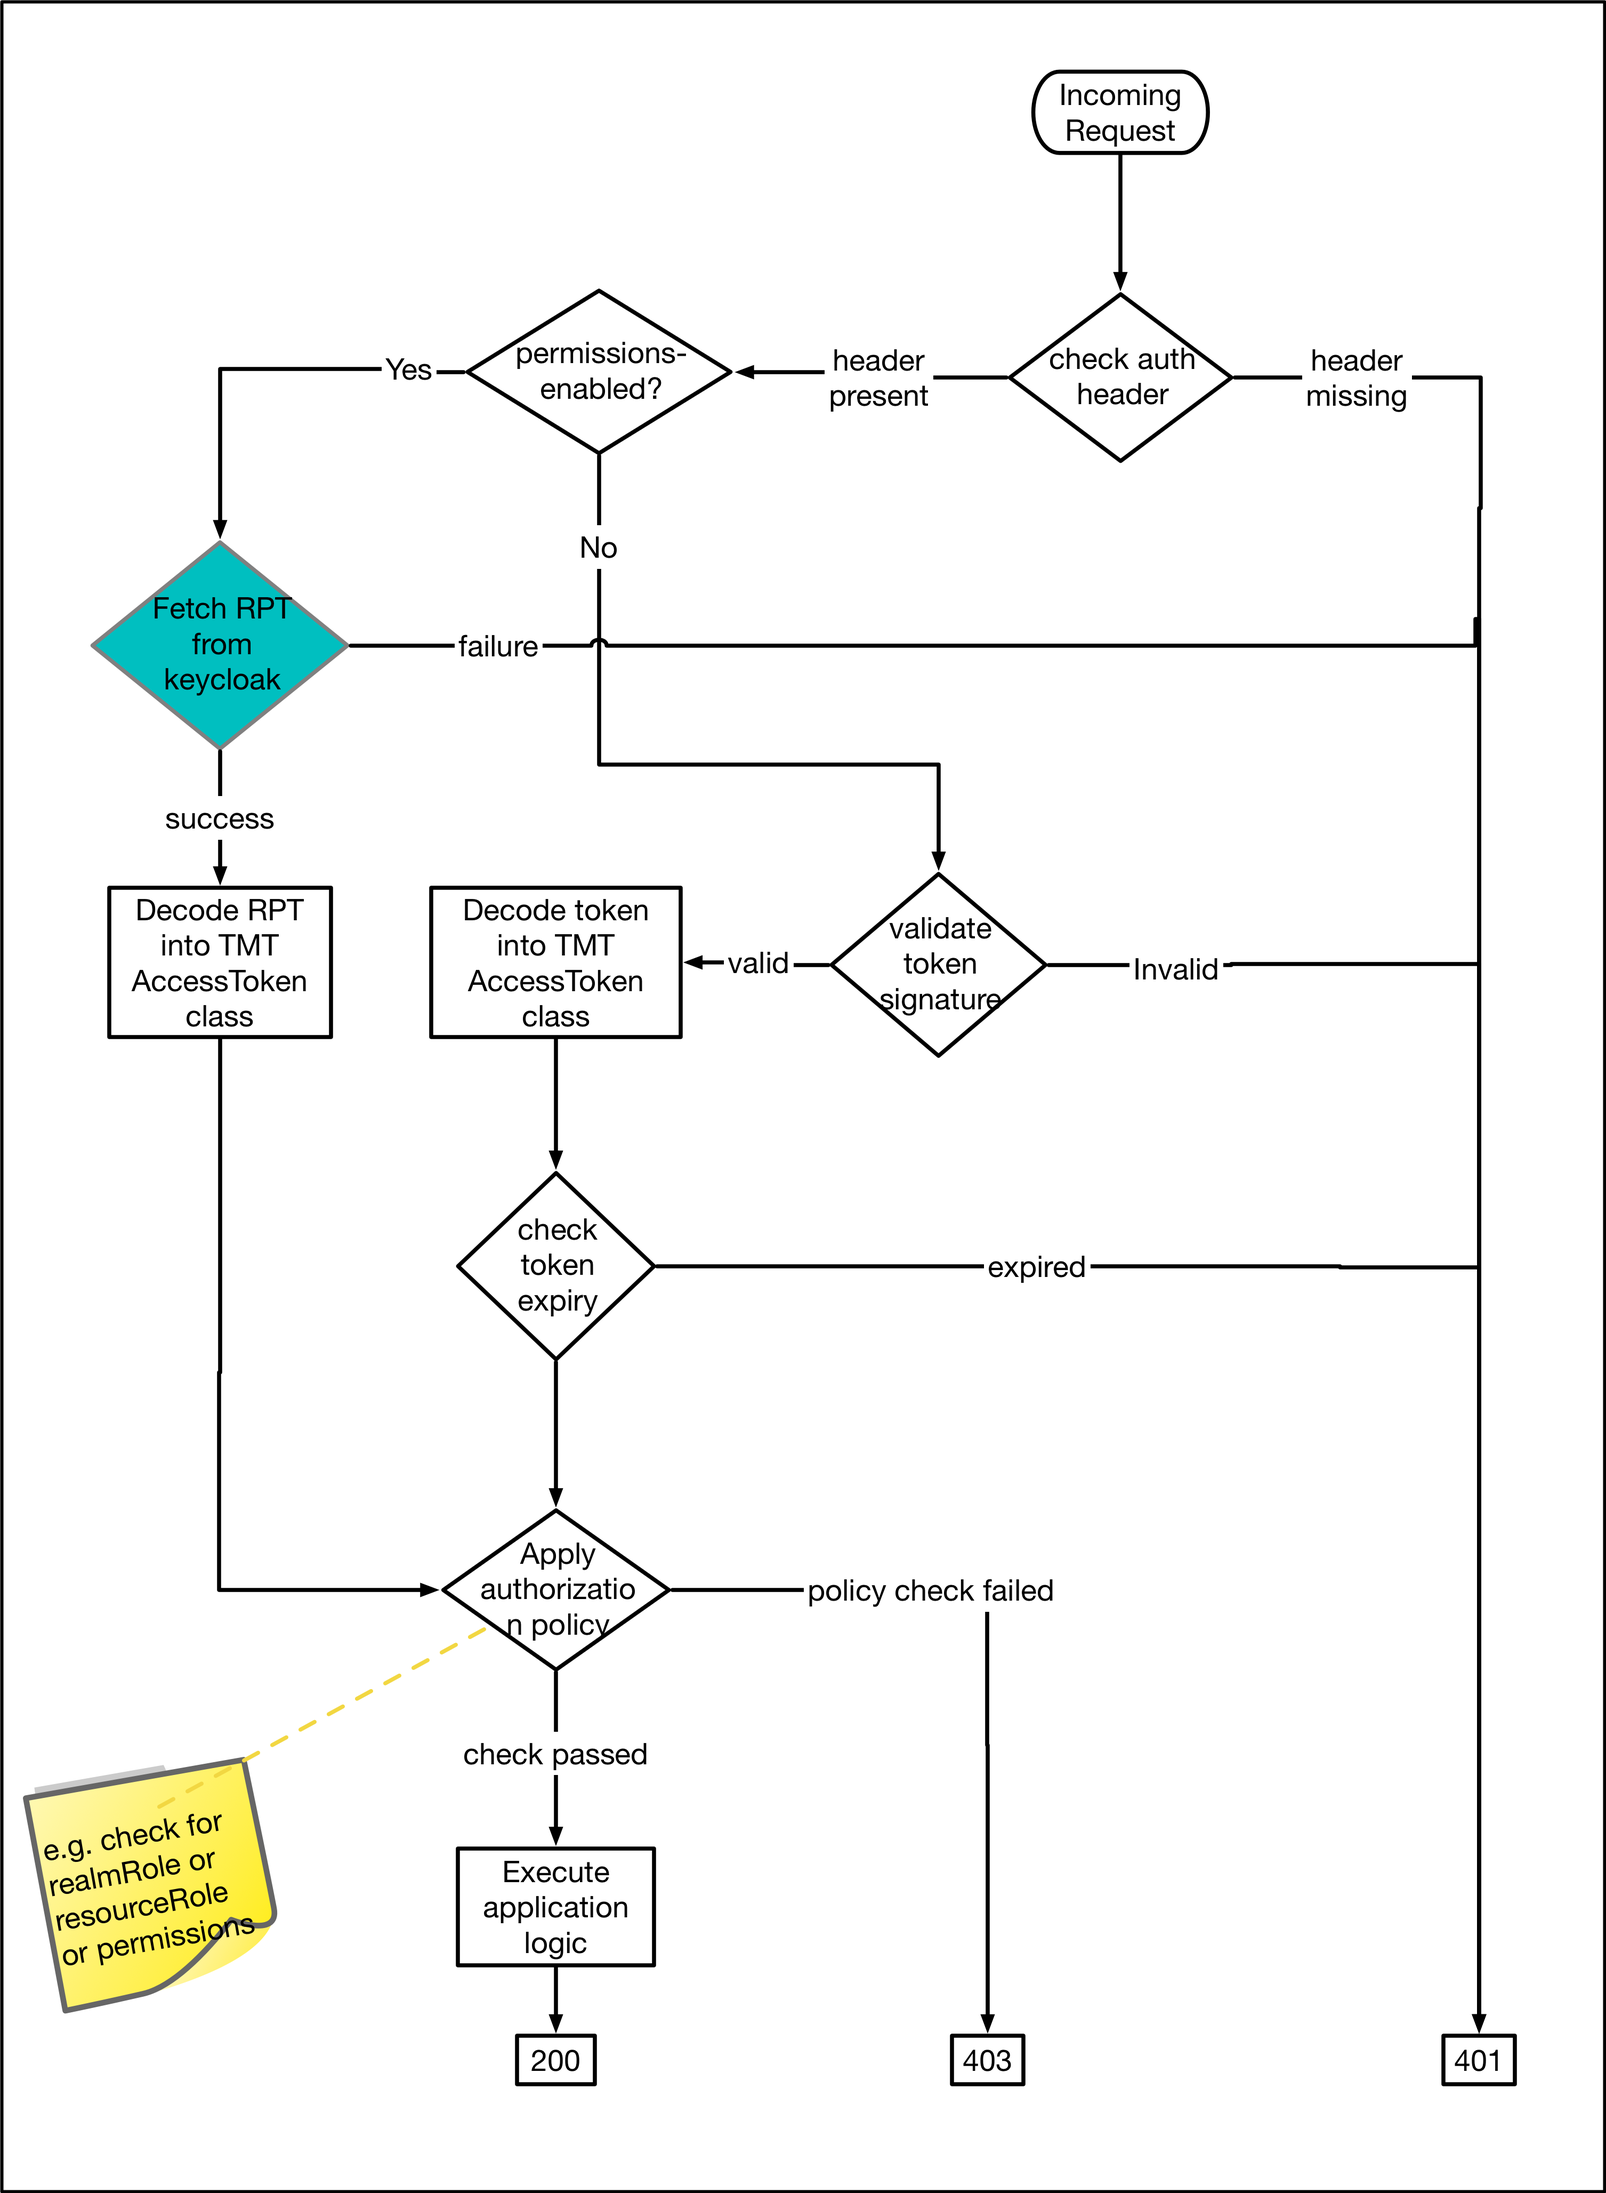
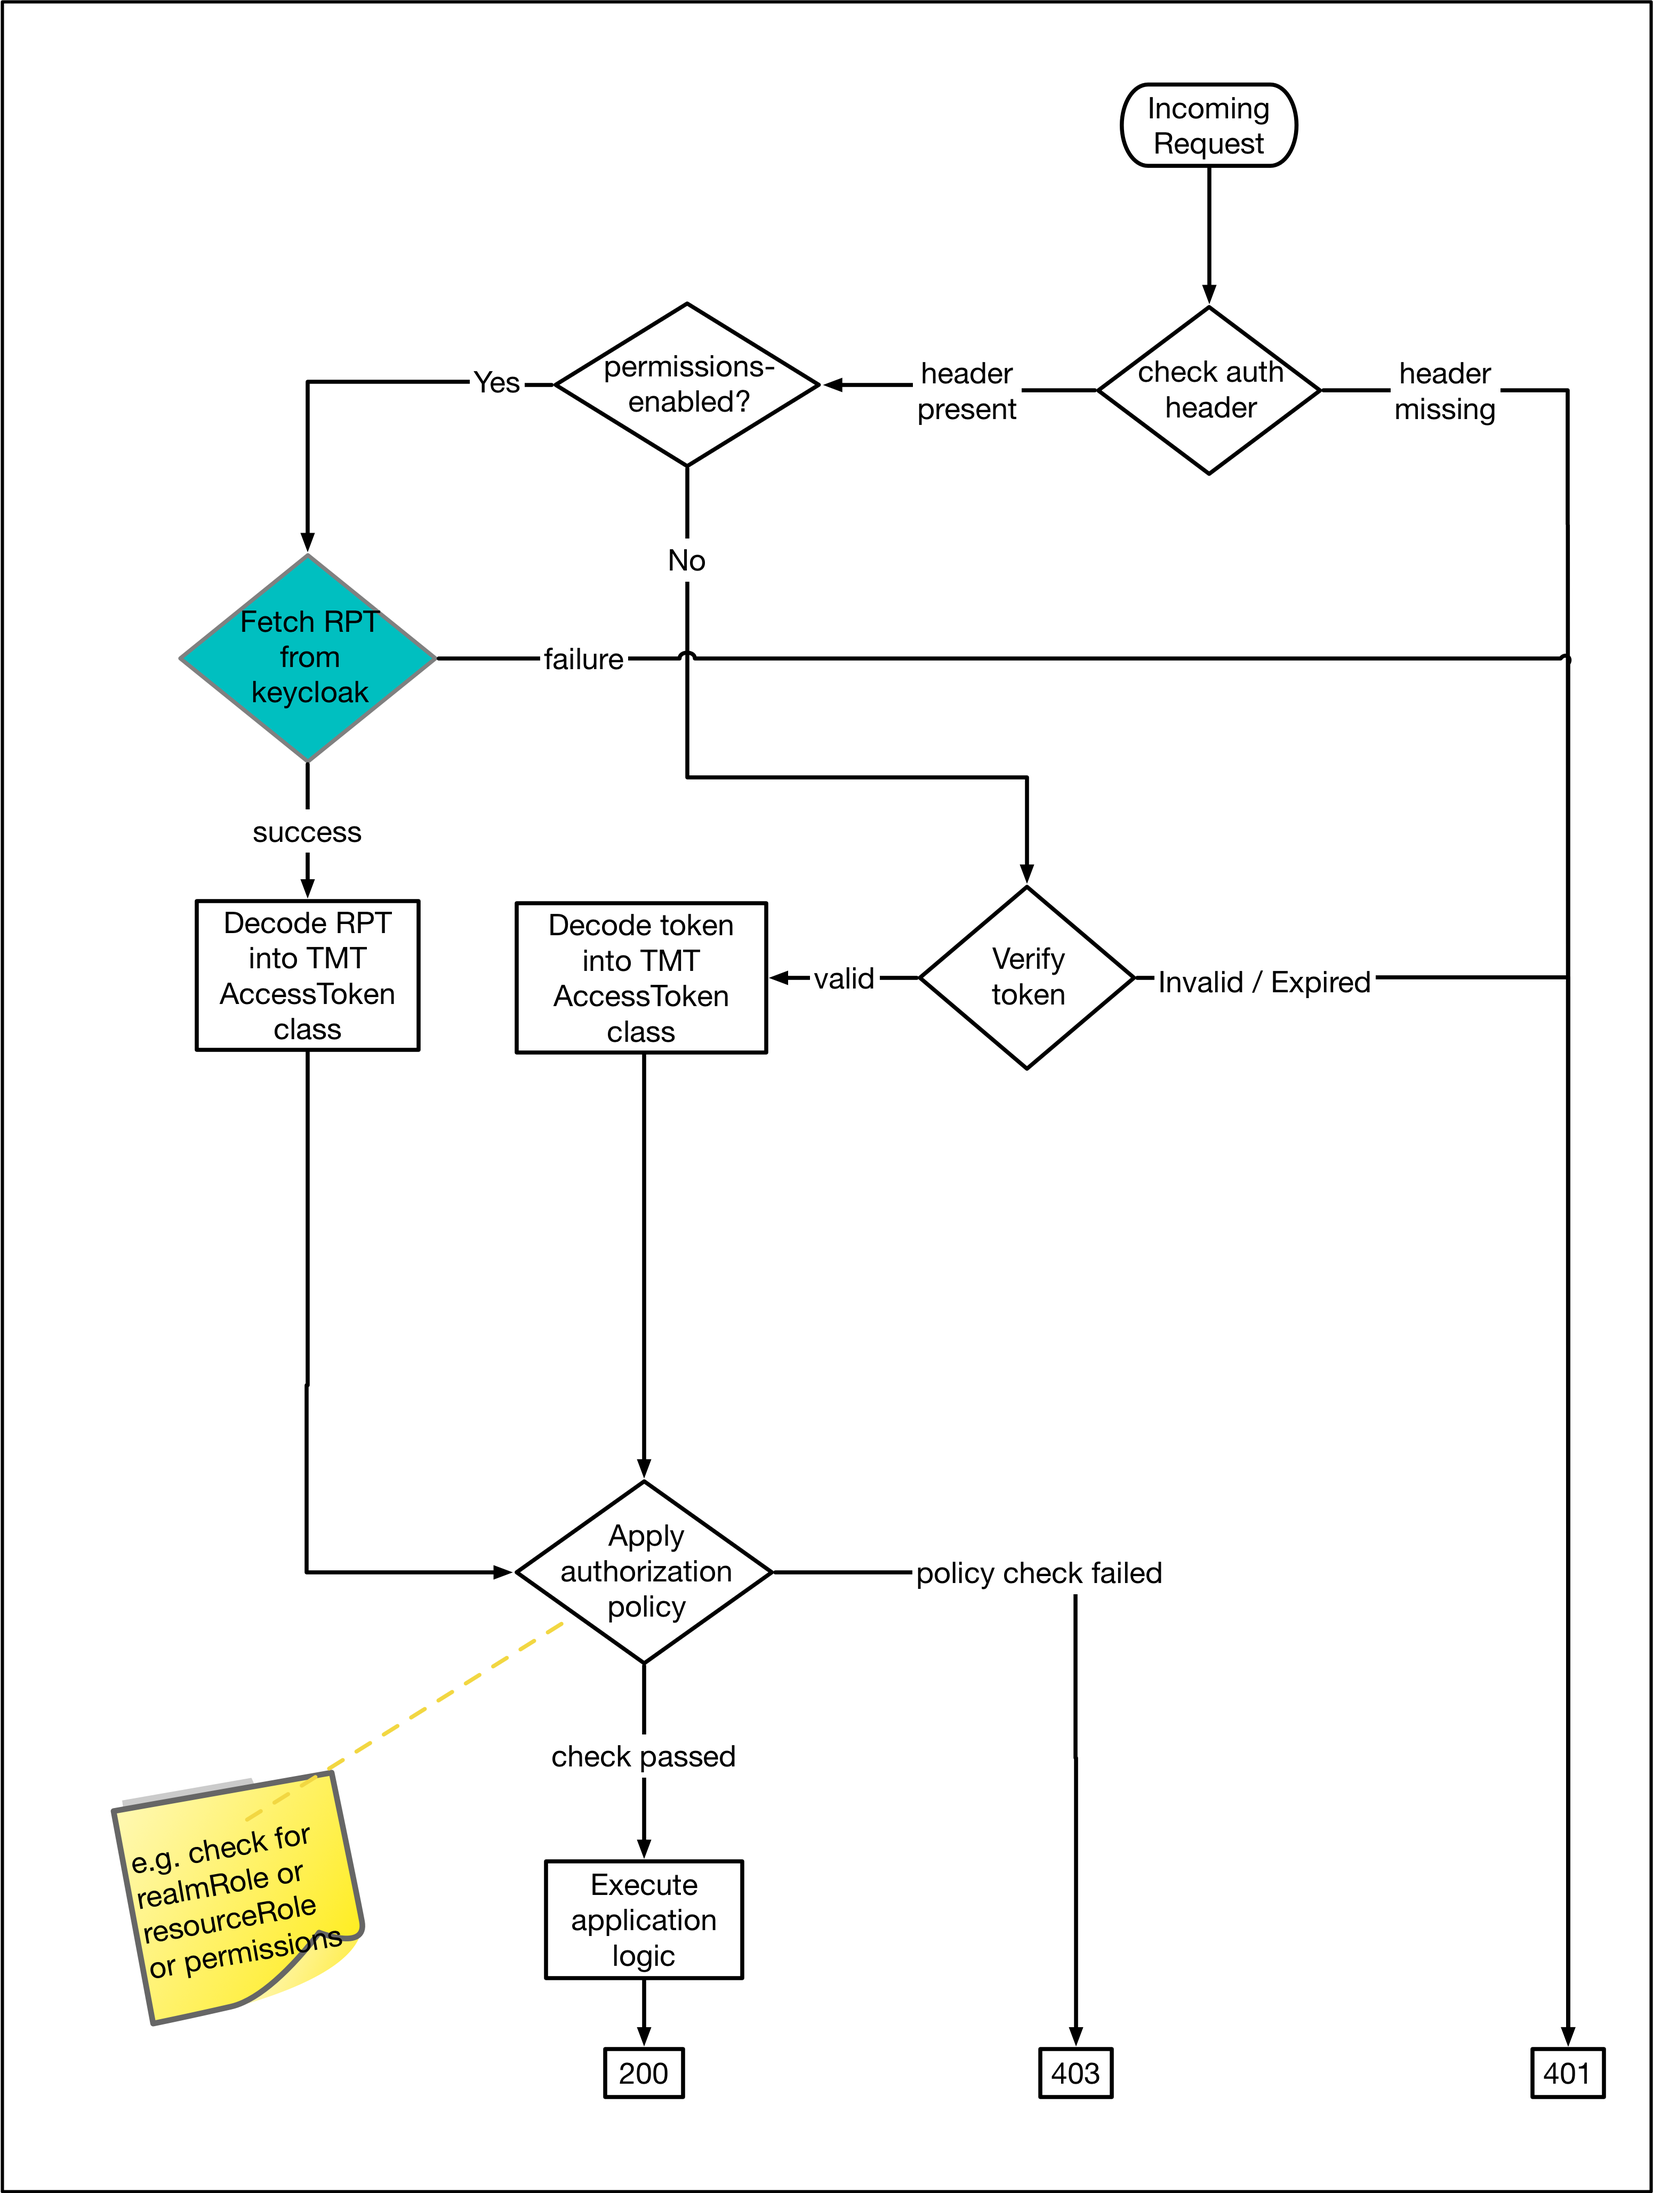
#CSW-42 : Poorva: csw-aas-http technical documentation

diff --git a/docs/src/main/technical/aas/csw-aas-http.md b/docs/src/main/technical/aas/csw-aas-http.md
@@ -10,15 +10,14 @@ for details.
 
 ###ID Token - 
 The ID Token is a JSON Web Token (JWT) that contains user profile information (such as the user's name and email) 
-which is represented in the form of claims. These claims are statements about the user, which can be trusted if the consumer of 
-the token can verify its signature.
+which is represented in the form of claims.
 
 ###Access Token - 
-An Access Token is a credential that can be used by an application to access an API. Access Tokens can be 
-is JSON web token digitally signed using JSON web signature (JWS). They inform the API that the bearer of the token has been 
-authorized to access the API and perform specific actions specified by the scope that has been granted.
-Access token contains all the information that ID token has. Additionally it has information related to realm and resource roles
-associated to user. This information is used for authorization based on clientRole and RealmRole policy.
+An Access Token is a credential that can be used by an application to access an API. Access Tokens is JSON web token digitally 
+signed using JSON web signature (JWS). They inform the API that the bearer of the token has been authorized to access the API and perform 
+specific actions specified by the scope that has been granted. Access token contains all the information that ID token has. 
+Additionally it has information related to realm and resource roles associated to user. This information is used for authorization 
+based on clientRole and RealmRole policy.
 
 ###Requesting Party Token - 
 A requesting party token (RPT) is a JSON web token (JWT) digitally signed using JSON web signature (JWS). 
@@ -31,18 +30,26 @@ authorization based on permission policy.
 
 When request comes to secure akka http server, it performs following steps.
 
-1. Authentication - 
+- Authentication 
 
-Authentication involves verifying and decoding token. Secure http endpoints expect access token to be provided in request header. 
-For verification it uses api provided by keycloak-adapter-core. For decoding we are using third party library.
+Authentication involves token verification and decoding. Secure http endpoints expect access token to be provided in request header. 
+For verification it uses api provided by keycloak-adapter-core. For decoding csw-aas-http uses third party library - [jwt-play-json](https://github.com/pauldijou/jwt-scala).
 If "enable-permissions" flag is enabled, it involves additional call to keycloak server for fetching RPT using access token provided
-in request header. RPT is then decoded using third party library. This completes authentication process. 
+in request header. RPT is then decoded using jwt-play-json. Authentication process verifies access token string and decode 
+it into `AccessToken` domain model. 
 
-2. Authorization -
+- Authorization
 
-Role based authorization involves checking access to secure api against roles information present in access token. Permission
-based authorization involves checking access to secure api against permissions present in RPT.
-
+Authorization involves applying specified `AuthorizationPolicy` against `AccessToken`. Foe example, role based authorization 
+involves checking access to secure api against roles information present in access token. Permission based authorization 
+involves checking access to secure api against permissions present in RPT.
+ 
 Following diagrams shows request flow for secure akka http server.
 
 ![aas-http-flow.png](akka-http-workflow.png) 
+
+## Asynchronous nature of Akka-HTTP Routing layer
+
+csw-aas-http uses `authenticateOAuth2Async` and `authorizeAsync` which are async variants of akka-http security directives. This allows 
+it to run without blocking routing layer of Akka HTTP, freeing it for other requests. Similarly to maintain asynchronous nature
+csw-aas-http also wraps blocking calls for keycloak adapter token verifier and call for fetching RPT from keycloak inside `Future`.
